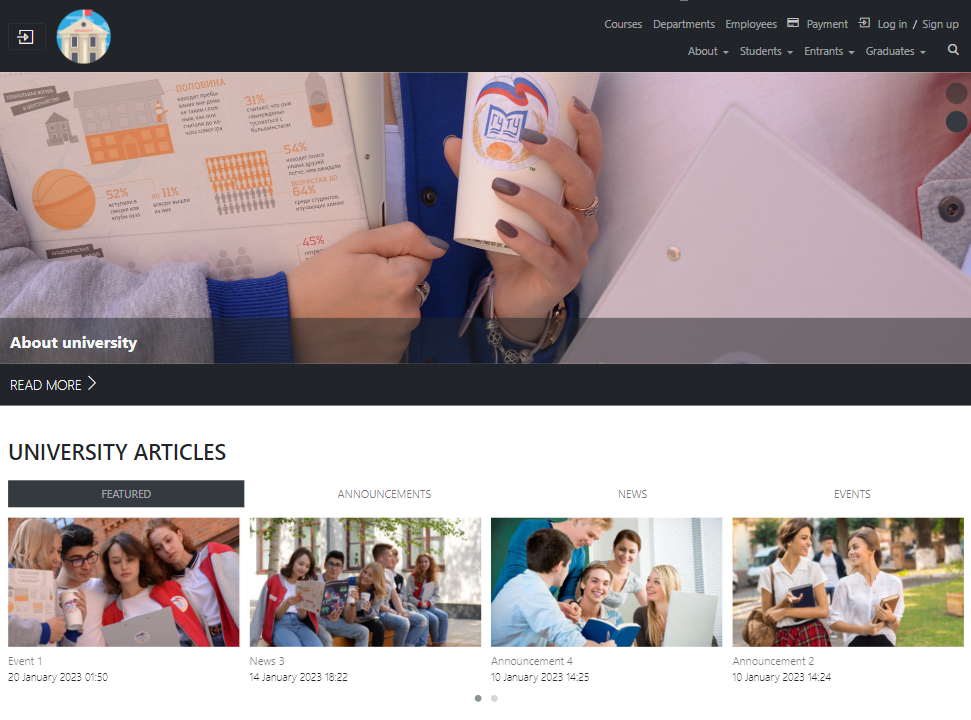
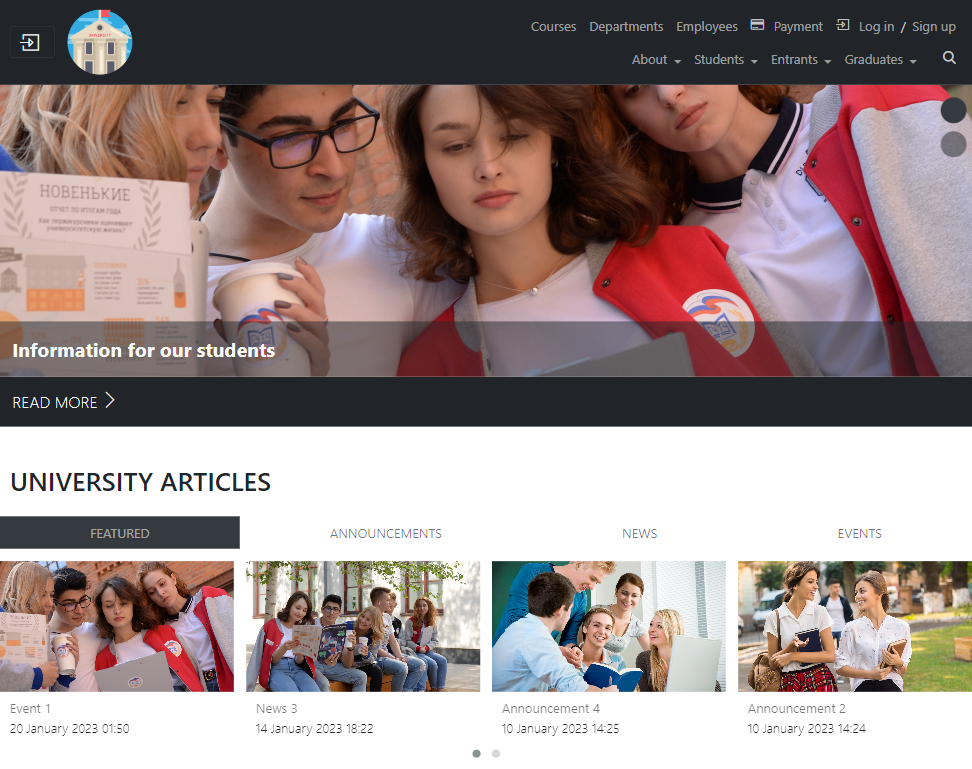
Front page fix
News block width + thumbnail size fix

diff --git a/style.css b/style.css
@@ -381,6 +381,11 @@ img {
     height: auto;
 }
 
+.tab-content .article-title,
+.tab-content .article-date {
+    margin: 0 var(--bs-gutter-x, .75rem);
+}
+
 .nav-pills .nav-link {
     border-radius: 0;
     color: var(--light-link-color);

diff --git a/template-parts/content/front-page/news.php b/template-parts/content/front-page/news.php
@@ -12,14 +12,15 @@
  */
 
 ?>
-<div class="container-fluid my-5">
 <?php
 // Display featured posts (set on front page) and featured categories (set in theme options) in a tabbed layout.
 $featured_cat = carbon_get_the_post_meta( 'crb_featured_cat' );
 $cat_list     = carbon_get_theme_option( 'crb_category_list' );
 if ( ( isset( $cat_list ) && ( ! empty( $cat_list ) ) ) || ( isset( $featured_cat ) && ( ! empty( $featured_cat ) ) ) ) {
 	?>
-	<h2 class="text-uppercase mb-4"><?php esc_html_e( 'University articles', 'msutm-main-theme' ); ?></h2>
+	<div class="container-fluid mt-5">
+		<h2 class="text-uppercase mb-4"><?php esc_html_e( 'University articles', 'msutm-main-theme' ); ?></h2>
+	</div>
 	<!-- Tab headers: begin -->
 	<ul class="nav nav-pills nav-fill text-uppercase" id="categoryTabs" role="tablist">
 	<?php
@@ -52,13 +53,13 @@ if ( ( isset( $cat_list ) && ( ! empty( $cat_list ) ) ) || ( isset( $featured_ca
 	</ul>
 	<!-- Tab headers: end -->
 	<!-- Tab content: begin -->
-	<div class="tab-content" id="categoryTabsContent">
+	<div class="tab-content mb-5" id="categoryTabsContent">
 	<?php
 	$cat_count = 0;
 	if ( isset( $featured_cat ) && ( ! empty( $featured_cat ) ) ) {
 		++$cat_count;
 		?>
-		<div class="tabs__content tab-pane active" id="featured" role="tabpanel" aria-labelledby="featured-tab">
+		<div class="tab-pane active" id="featured" role="tabpanel" aria-labelledby="featured-tab">
 		<?php
 		// Display featured posts with a carousel template.
 		get_template_part(
@@ -94,5 +95,3 @@ if ( ( isset( $cat_list ) && ( ! empty( $cat_list ) ) ) || ( isset( $featured_ca
 	<!-- Tab content: end -->
 	<?php
 }
-?>
-</div>

diff --git a/template-parts/archive/single-post.php b/template-parts/archive/single-post.php
@@ -11,7 +11,7 @@
  * @link      https://github.com/Shadrie/Wordpress_MSUTM_Main_Theme
  */
 
-$thumbnail = get_the_post_thumbnail_url( '', 'medium' );
+$thumbnail = get_the_post_thumbnail_url( '', 'large' );
 ?>				     
 <div class="article-item">
 	<a href="<?php echo esc_url( get_the_permalink() ); ?>">
@@ -20,5 +20,5 @@ $thumbnail = get_the_post_thumbnail_url( '', 'medium' );
 		<?php } ?>       
 		<div class="article-title"><?php the_title(); ?></div>
 	</a>         
-	<div class="fw-lighter"><?php echo get_the_date( 'j F Y H:i' ); ?></div>
+	<div class="article-date fw-lighter"><?php echo get_the_date( 'j F Y H:i' ); ?></div>
 </div>
